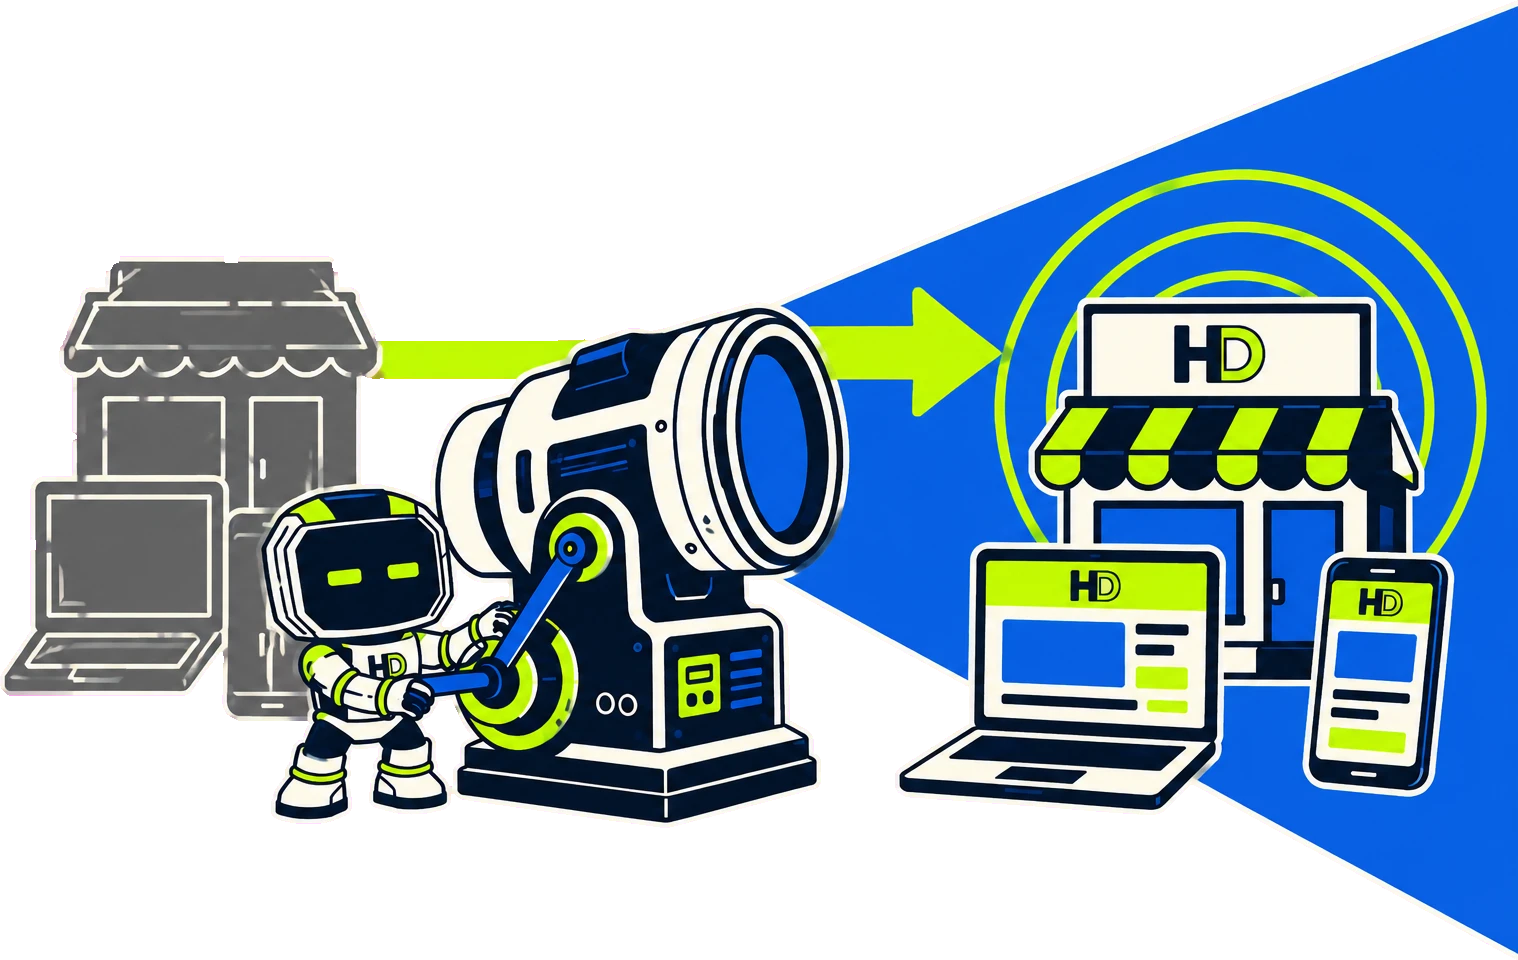
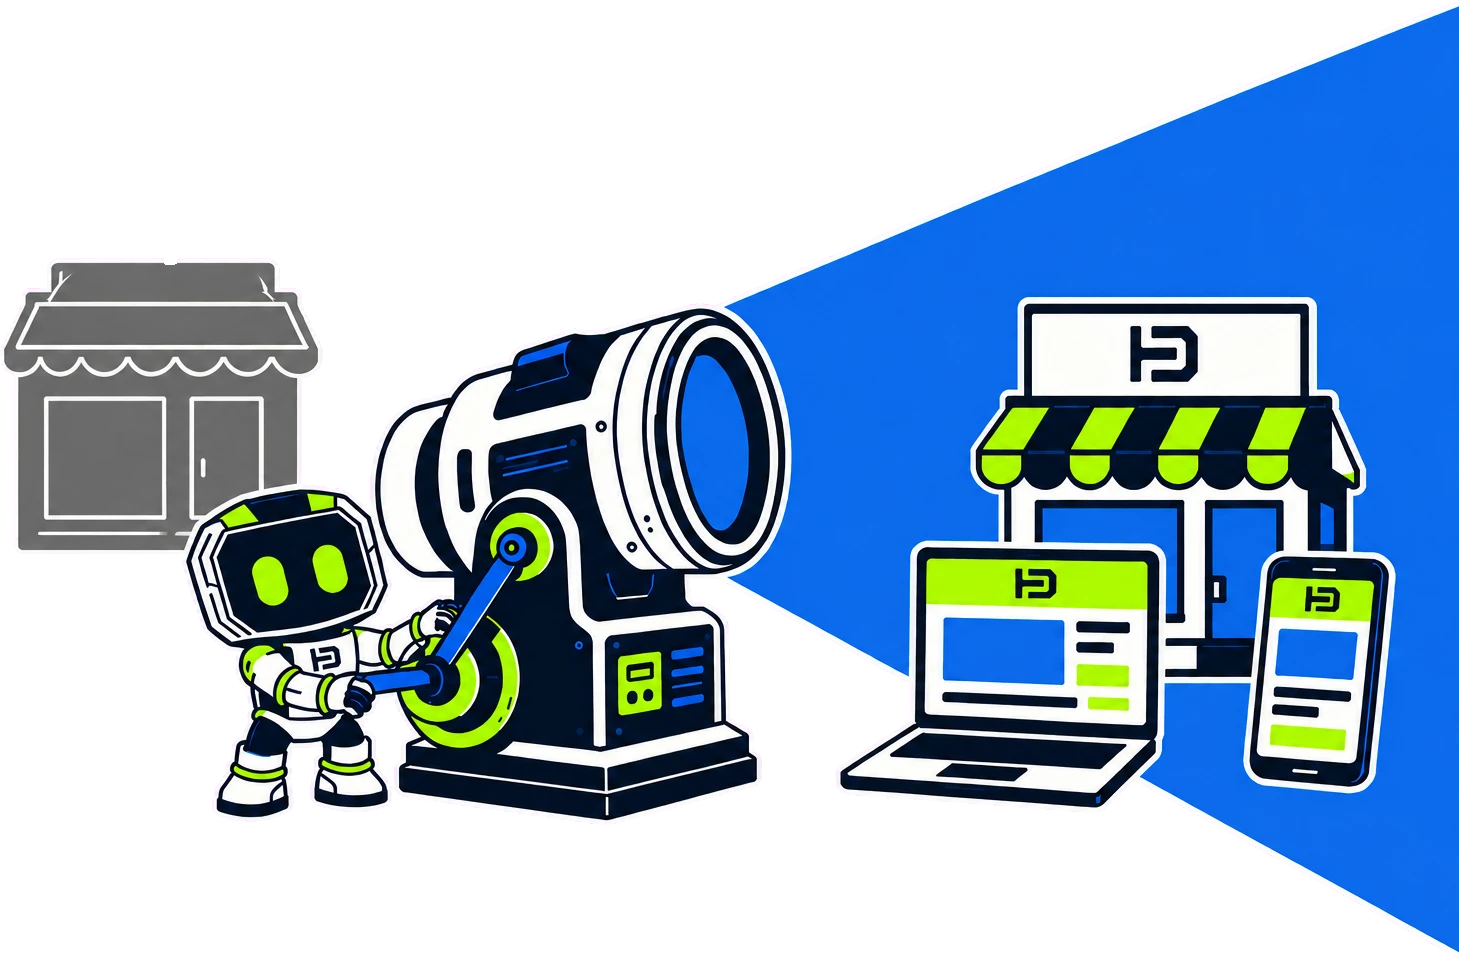
Deploy: sync site from workspace @ f72e392

diff --git a/es/branding.html b/es/branding.html
@@ -216,7 +216,7 @@
 
     <figure data-rise="right">
 
-      <img src="../assets/brand-applied.webp" width="1462" height="953" loading="lazy" decoding="async"
+      <img src="../assets/brand-applied.webp" width="1461" height="952" loading="lazy" decoding="async"
            alt="La identidad de HagoDigital aplicada en una fachada, letreros, una p&aacute;gina, una pantalla de tel&eacute;fono, una franela y una furgoneta de reparto, con Hago en una plataforma pintando el monograma HD en la pared.">
     </figure>
   </div>
@@ -254,7 +254,7 @@
 
       <article class="scard">
 
-        <div class="art"><img src="../assets/sys-type.webp" width="640" height="640" loading="lazy" decoding="async" alt="Una placa con una A mayúscula azul marino junto a una a minúscula lima, sobre tres líneas de texto y una barra de medición."></div>
+        <div class="art"><img src="../assets/sys-type.webp" width="640" height="640" loading="lazy" decoding="async" alt="Una placa marfil con la palabra COOL en azul cursiva, SERIOUS en una condensada azul marino y FUN en una redondeada lima: tres personalidades tipográficas en una sola tarjeta."></div>
         <h3>4. Tipograf&iacute;a</h3>
         <p>Las tipograf&iacute;as que hablan por ti. Escogidas por claridad, jerarqu&iacute;a y una personalidad que aguanta en cualquier tama&ntilde;o.</p>
       </article>
@@ -327,7 +327,7 @@
       </div>
       <figure class="close-art" data-rise>
 
-        <img src="../assets/brand-before-after.webp" width="1518" height="960" loading="lazy" decoding="async"
+        <img src="../assets/brand-before-after.webp" width="1459" height="959" loading="lazy" decoding="async"
              alt="Hago manejando un proyector: a la izquierda una fachada y una laptop grises y gen&eacute;ricas, a la derecha el mismo negocio con los colores de HagoDigital en su letrero, su p&aacute;gina y un tel&eacute;fono.">
       </figure>
     </div>

diff --git a/branding.html b/branding.html
@@ -217,7 +217,7 @@
 
     <figure data-rise="right">
 
-      <img src="assets/brand-applied.webp" width="1462" height="953" loading="lazy" decoding="async"
+      <img src="assets/brand-applied.webp" width="1461" height="952" loading="lazy" decoding="async"
            alt="The HagoDigital identity applied across a shopfront, signage, a website, a phone screen, a t-shirt and a delivery van, with Hago on a lift painting the HD monogram onto the wall.">
     </figure>
   </div>
@@ -255,7 +255,7 @@
 
       <article class="scard">
 
-        <div class="art"><img src="assets/sys-type.webp" width="640" height="640" loading="lazy" decoding="async" alt="A tile showing a navy capital A beside a lime lowercase a, over three text rules and a measuring bar."></div>
+        <div class="art"><img src="assets/sys-type.webp" width="640" height="640" loading="lazy" decoding="async" alt="An ivory tile carrying the word COOL in blue italic, SERIOUS in a narrow navy condensed face and FUN in a rounded lime face, three type personalities on one card."></div>
         <h3>4. Typography</h3>
         <p>The fonts that speak for you. Chosen for clarity, hierarchy and a personality that carries at any size.</p>
       </article>
@@ -328,7 +328,7 @@
       </div>
       <figure class="close-art" data-rise>
 
-        <img src="assets/brand-before-after.webp" width="1518" height="960" loading="lazy" decoding="async"
+        <img src="assets/brand-before-after.webp" width="1459" height="959" loading="lazy" decoding="async"
              alt="Hago working a projector: on the left a plain grey shopfront and laptop, on the right the same business in HagoDigital colours across its sign, a website and a phone.">
       </figure>
     </div>
